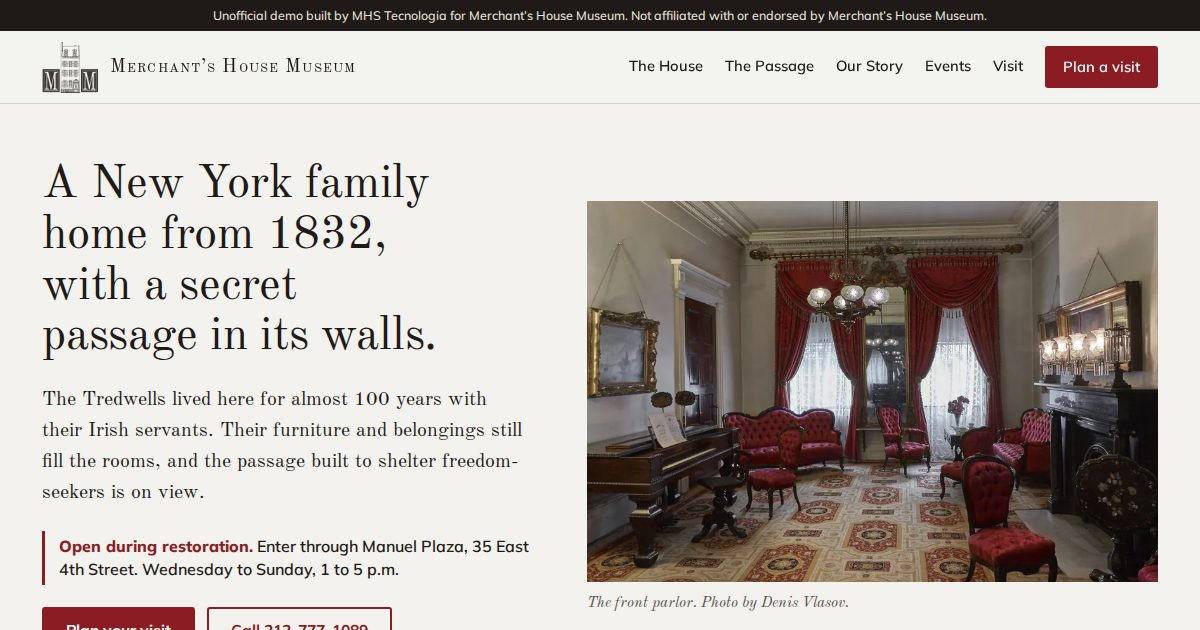
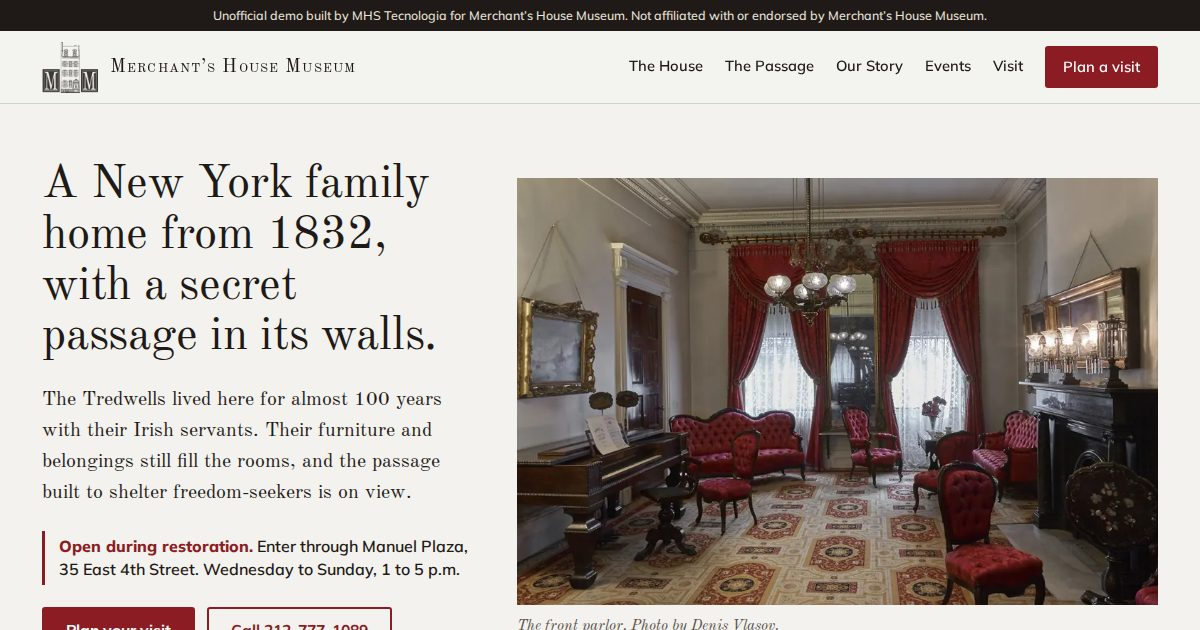
Previews: 151 ativos

Changed region(s): [[0.0308, 0.2714, 0.9867, 1.0], [0.0617, 0.8746, 0.37, 0.9349]]

diff --git a/merchants-house-museum-new-york-ny/house.html b/merchants-house-museum-new-york-ny/house.html
@@ -62,7 +62,7 @@ figcaption{font:italic 400 .95rem/1.45 var(--serif);color:var(--muted);margin-to
 section{padding:88px 0}
 /* hero */
 .hero{padding:56px 0 72px}
-.hero .wrap{display:grid;grid-template-columns:minmax(0,6fr) minmax(0,7fr);gap:56px;align-items:center}
+.hero .wrap{display:grid;grid-template-columns:minmax(0,4fr) minmax(0,6fr);gap:48px;align-items:center}
 .hero h1{font-size:clamp(2.2rem,3.9vw,3.4rem)}
 .hero h1{margin-bottom:22px}
 .hero .open{border-left:3px solid var(--silk);padding:4px 0 4px 14px;font:600 1rem/1.45 var(--sans);margin:22px 0}
@@ -214,18 +214,19 @@ td:last-child{text-align:right;font-weight:700;white-space:nowrap;padding-left:1
 </div></section>
 
 <section id="bedroom" class="section-dwg"><div class="wrap">
-<div class="room-h"><h2>Bedroom floor</h2><p>The hidden passage begins here: a narrow passageway, about 2 feet square, beneath a built-in chest of drawers, descending 15 feet to the ground-floor pantry.</p></div>
-<div class="rooms">
-<figure class="ph cap480"><img src="img/stairs-560.webp" srcset="img/stairs-900.webp 900w, img/stairs-560.webp 560w" sizes="(max-width: 760px) calc(100vw - 32px), 480px" width="900" height="1350" alt="Looking down the curving mahogany stair rail through three floors" loading="lazy" decoding="async"><figcaption>Bedroom floor stairs. Photo by Max Touhey.</figcaption></figure>
+<div class="two" style="align-items:center">
+<div><h2>Bedroom floor</h2><p class="lede" style="margin-top:18px">The hidden passage begins here: a narrow passageway, about 2 feet square, beneath a built-in chest of drawers, descending 15 feet to the ground-floor pantry.</p>
+<a class="btn btn-s" href="passage.html">About the passage</a></div>
+<figure class="ph cap480"><img src="img/stairs-560.webp" srcset="img/stairs-900.webp 900w, img/stairs-560.webp 560w" sizes="(max-width: 760px) calc(100vw - 32px), 480px" width="900" height="1350" alt="The curving mahogany stair rail, seen from a landing" loading="lazy" decoding="async"><figcaption>The stairs, from a landing. Photo by Max Touhey.</figcaption></figure>
 </div>
 </div></section>
 
 <section id="parlor"><div class="wrap">
-<div class="room-h"><h2>Parlor floor</h2><p>The Greek Revival double parlor, with red silk upholstered Rococo Revival furniture and red silk draperies. Each holiday season, A Christmas Carol is performed here. Outside, Ionic columns surround the front door.</p></div>
+<div class="room-h"><h2>Parlor floor</h2><p>The Greek Revival double parlor, with red silk upholstered Rococo Revival furniture and red silk draperies. Each holiday season, A Christmas Carol is performed here. Outside, Ionic columns stand near the front door.</p></div>
 <div class="rooms">
 <figure class="ph wide"><img src="img/parlor-900.webp" srcset="img/parlor-1400.webp 1400w, img/parlor-900.webp 900w" sizes="(max-width: 760px) calc(100vw - 32px), (max-width: 1244px) calc(100vw - 64px), 1116px" width="1400" height="933" alt="The front parlor with red silk furniture, draperies and a patterned carpet" loading="lazy" decoding="async"><figcaption>Front parlor. Photo by Denis Vlasov.</figcaption></figure>
-<figure class="ph"><img src="img/cornice-700.webp" srcset="img/cornice-1200.webp 1200w, img/cornice-700.webp 700w" sizes="(max-width: 760px) calc(100vw - 32px), (max-width: 1244px) calc(50vw - 56px), 566px" width="1200" height="800" alt="White ornamental plaster cornice with leaf and egg-and-dart moldings" loading="lazy" decoding="async"><figcaption>The decorative plasterwork in these rooms is considered the finest example extant. Photo by Max Touhey.</figcaption></figure>
-<figure class="ph"><img src="img/column-700.webp" srcset="img/column-1200.webp 1200w, img/column-700.webp 700w" sizes="(max-width: 760px) calc(100vw - 32px), (max-width: 1244px) calc(50vw - 56px), 566px" width="1200" height="900" alt="An Ionic column capital and carved plaster framing at the front door" loading="lazy" decoding="async"><figcaption>Front facade detail.</figcaption></figure>
+<figure class="ph"><img src="img/cornice-700.webp" srcset="img/cornice-1200.webp 1200w, img/cornice-700.webp 700w" sizes="(max-width: 760px) calc(100vw - 32px), (max-width: 1244px) calc(50vw - 56px), 566px" width="1200" height="800" alt="White ornamental plaster cornice with leaf and egg-and-dart moldings" loading="lazy" decoding="async"><figcaption>Front parlor cornice. Photo by Max Touhey.</figcaption></figure>
+<figure class="ph"><img src="img/column-700.webp" srcset="img/column-1200.webp 1200w, img/column-700.webp 700w" sizes="(max-width: 760px) calc(100vw - 32px), (max-width: 1244px) calc(50vw - 56px), 566px" width="1200" height="900" alt="An Ionic column capital and carved plaster detail near the front door" loading="lazy" decoding="async"><figcaption>Front facade detail.</figcaption></figure>
 </div>
 </div></section>
 

diff --git a/merchants-house-museum-new-york-ny/index.html b/merchants-house-museum-new-york-ny/index.html
@@ -10,7 +10,7 @@
 <link rel="icon" type="image/png" href="favicon.png">
 <link rel="preload" href="fonts/oldstandardtt-normal-400.woff2" as="font" type="font/woff2" crossorigin>
 <link rel="preload" as="image" imagesrcset="img/parlor-m-480.webp 480w, img/parlor-m-800.webp 800w" imagesizes="calc(100vw - 32px)" media="(max-width: 980px)" fetchpriority="high">
-<link rel="preload" as="image" imagesrcset="img/parlor-900.webp 900w, img/parlor-1400.webp 1400w" imagesizes="(max-width: 1244px) 56vw, 680px" media="(min-width: 981px)" fetchpriority="high">
+<link rel="preload" as="image" imagesrcset="img/parlor-900.webp 900w, img/parlor-1400.webp 1400w" imagesizes="(max-width: 1244px) 58vw, 680px" media="(min-width: 981px)" fetchpriority="high">
 <style>
 @font-face{font-family:"Old Standard";font-weight:400;font-style:normal;font-display:swap;src:url(fonts/oldstandardtt-normal-400.woff2) format("woff2")}
 @font-face{font-family:"Old Standard";font-weight:700;font-style:normal;font-display:swap;src:url(fonts/oldstandardtt-normal-700.woff2) format("woff2")}
@@ -64,7 +64,7 @@ figcaption{font:italic 400 .95rem/1.45 var(--serif);color:var(--muted);margin-to
 section{padding:88px 0}
 /* hero */
 .hero{padding:56px 0 72px}
-.hero .wrap{display:grid;grid-template-columns:minmax(0,6fr) minmax(0,7fr);gap:56px;align-items:center}
+.hero .wrap{display:grid;grid-template-columns:minmax(0,4fr) minmax(0,6fr);gap:48px;align-items:center}
 .hero h1{font-size:clamp(2.2rem,3.9vw,3.4rem)}
 .hero h1{margin-bottom:22px}
 .hero .open{border-left:3px solid var(--silk);padding:4px 0 4px 14px;font:600 1rem/1.45 var(--sans);margin:22px 0}
@@ -219,7 +219,7 @@ td:last-child{text-align:right;font-weight:700;white-space:nowrap;padding-left:1
 <figure>
 <picture>
 <source media="(max-width: 980px)" srcset="img/parlor-m-480.webp 480w, img/parlor-m-800.webp 800w" sizes="calc(100vw - 32px)" width="800" height="600">
-<img src="img/parlor-1400.webp" srcset="img/parlor-900.webp 900w, img/parlor-1400.webp 1400w" sizes="(max-width: 1244px) 56vw, 680px" width="1400" height="933" alt="The front parlor: red silk sofas and chairs, red draperies, a pianoforte and a brass chandelier" fetchpriority="high">
+<img src="img/parlor-1400.webp" srcset="img/parlor-900.webp 900w, img/parlor-1400.webp 1400w" sizes="(max-width: 1244px) 58vw, 680px" width="1400" height="933" alt="The front parlor: red silk sofas and chairs, red draperies, a pianoforte and a brass chandelier" fetchpriority="high">
 </picture>
 <figcaption>The front parlor. Photo by Denis Vlasov.</figcaption>
 </figure>
@@ -244,10 +244,10 @@ td:last-child{text-align:right;font-weight:700;white-space:nowrap;padding-left:1
 <p class="pass">The passage starts here, about 2 feet square, under a built-in chest of drawers.</p></div></li>
 <li class="floor p-mid tall"><div class="fac " aria-hidden="true"><span class="win"></span><span class="win"></span><span class="door"></span></div><div class="ftxt">
 <h3><a href="house.html#parlor">Parlor floor</a></h3>
-<p>The Greek Revival double parlor, whose decorative plasterwork is considered the finest example extant.</p></div></li>
+<p>The Greek Revival double parlor, in a house considered one of the finest surviving examples of architecture from the period.</p></div></li>
 <li class="floor p-end"><div class="fac short" aria-hidden="true"><span class="win"></span><span class="win"></span><span class="win"></span></div><div class="ftxt">
 <h3><a href="house.html#ground">Ground floor</a></h3>
-<p>The 1850s kitchen, below the parlors.</p>
+<p>The kitchen.</p>
 <p class="pass">The passage ends in the pantry, 15 feet below.</p></div></li>
 </ol>
 <div class="street" aria-hidden="true"><div></div><span></span></div>

diff --git a/merchants-house-museum-new-york-ny/story.html b/merchants-house-museum-new-york-ny/story.html
@@ -62,7 +62,7 @@ figcaption{font:italic 400 .95rem/1.45 var(--serif);color:var(--muted);margin-to
 section{padding:88px 0}
 /* hero */
 .hero{padding:56px 0 72px}
-.hero .wrap{display:grid;grid-template-columns:minmax(0,6fr) minmax(0,7fr);gap:56px;align-items:center}
+.hero .wrap{display:grid;grid-template-columns:minmax(0,4fr) minmax(0,6fr);gap:48px;align-items:center}
 .hero h1{font-size:clamp(2.2rem,3.9vw,3.4rem)}
 .hero h1{margin-bottom:22px}
 .hero .open{border-left:3px solid var(--silk);padding:4px 0 4px 14px;font:600 1rem/1.45 var(--sans);margin:22px 0}
@@ -234,7 +234,7 @@ td:last-child{text-align:right;font-weight:700;white-space:nowrap;padding-left:1
 </div></section>
 
 <section class="section-dwg"><div class="wrap rooms">
-<figure class="ph"><img src="img/stairs-560.webp" srcset="img/stairs-900.webp 900w, img/stairs-560.webp 560w" sizes="(max-width: 760px) calc(100vw - 32px), (max-width: 980px) calc(100vw - 64px), 566px" width="900" height="1350" alt="The curving stair rail seen from a landing, rising through the house" loading="lazy" decoding="async"><figcaption>The stairs the servants climbed all day. Photo by Max Touhey.</figcaption></figure>
+<figure class="ph"><img src="img/stairs-560.webp" srcset="img/stairs-900.webp 900w, img/stairs-560.webp 560w" sizes="(max-width: 760px) calc(100vw - 32px), (max-width: 980px) calc(100vw - 64px), 566px" width="900" height="1350" alt="The curving mahogany stair rail, seen from a landing" loading="lazy" decoding="async"><figcaption>The stairs, from a landing. Photo by Max Touhey.</figcaption></figure>
 <div><h2>Come and see it</h2><p class="lede" style="margin-top:18px">The Irish servants’ tour, “In the Footsteps of Bridget Murphy,” goes from the ground-floor kitchen to the fourth-floor servants’ quarters.</p>
 <div class="actions"><a class="btn btn-p" href="events.html">See upcoming tours</a><a class="btn btn-s" href="visit.html">Hours and tickets</a></div></div>
 </div></section>

diff --git a/merchants-house-museum-new-york-ny/events.html b/merchants-house-museum-new-york-ny/events.html
@@ -62,7 +62,7 @@ figcaption{font:italic 400 .95rem/1.45 var(--serif);color:var(--muted);margin-to
 section{padding:88px 0}
 /* hero */
 .hero{padding:56px 0 72px}
-.hero .wrap{display:grid;grid-template-columns:minmax(0,6fr) minmax(0,7fr);gap:56px;align-items:center}
+.hero .wrap{display:grid;grid-template-columns:minmax(0,4fr) minmax(0,6fr);gap:48px;align-items:center}
 .hero h1{font-size:clamp(2.2rem,3.9vw,3.4rem)}
 .hero h1{margin-bottom:22px}
 .hero .open{border-left:3px solid var(--silk);padding:4px 0 4px 14px;font:600 1rem/1.45 var(--sans);margin:22px 0}

diff --git a/merchants-house-museum-new-york-ny/passage.html b/merchants-house-museum-new-york-ny/passage.html
@@ -62,7 +62,7 @@ figcaption{font:italic 400 .95rem/1.45 var(--serif);color:var(--muted);margin-to
 section{padding:88px 0}
 /* hero */
 .hero{padding:56px 0 72px}
-.hero .wrap{display:grid;grid-template-columns:minmax(0,6fr) minmax(0,7fr);gap:56px;align-items:center}
+.hero .wrap{display:grid;grid-template-columns:minmax(0,4fr) minmax(0,6fr);gap:48px;align-items:center}
 .hero h1{font-size:clamp(2.2rem,3.9vw,3.4rem)}
 .hero h1{margin-bottom:22px}
 .hero .open{border-left:3px solid var(--silk);padding:4px 0 4px 14px;font:600 1rem/1.45 var(--sans);margin:22px 0}

diff --git a/merchants-house-museum-new-york-ny/visit.html b/merchants-house-museum-new-york-ny/visit.html
@@ -62,7 +62,7 @@ figcaption{font:italic 400 .95rem/1.45 var(--serif);color:var(--muted);margin-to
 section{padding:88px 0}
 /* hero */
 .hero{padding:56px 0 72px}
-.hero .wrap{display:grid;grid-template-columns:minmax(0,6fr) minmax(0,7fr);gap:56px;align-items:center}
+.hero .wrap{display:grid;grid-template-columns:minmax(0,4fr) minmax(0,6fr);gap:48px;align-items:center}
 .hero h1{font-size:clamp(2.2rem,3.9vw,3.4rem)}
 .hero h1{margin-bottom:22px}
 .hero .open{border-left:3px solid var(--silk);padding:4px 0 4px 14px;font:600 1rem/1.45 var(--sans);margin:22px 0}
